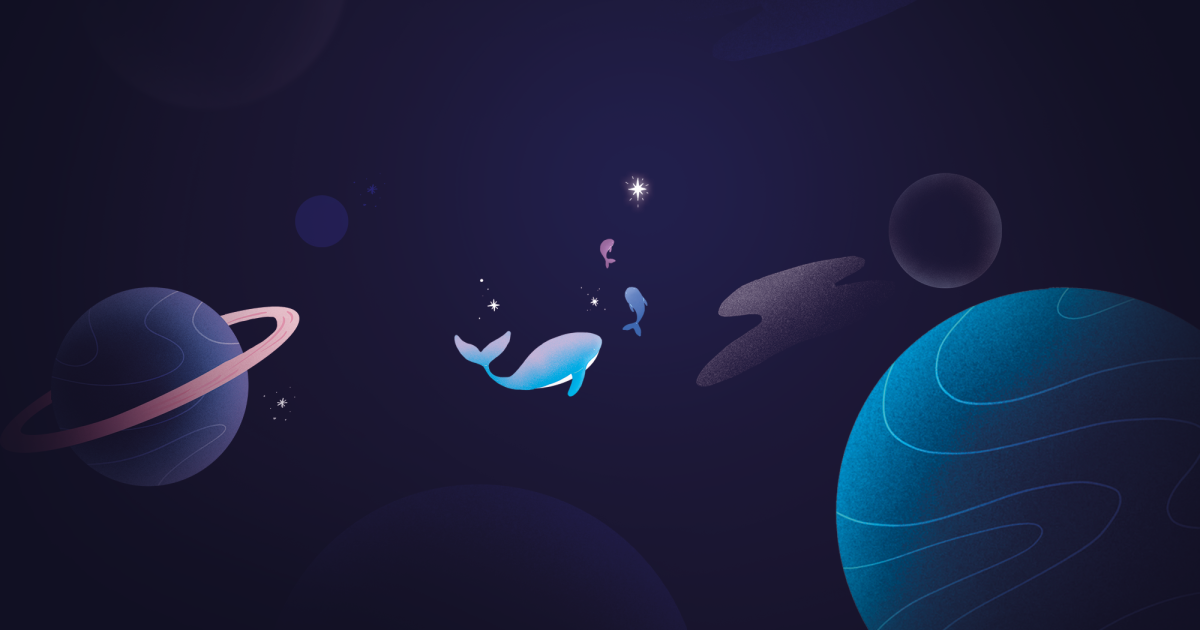
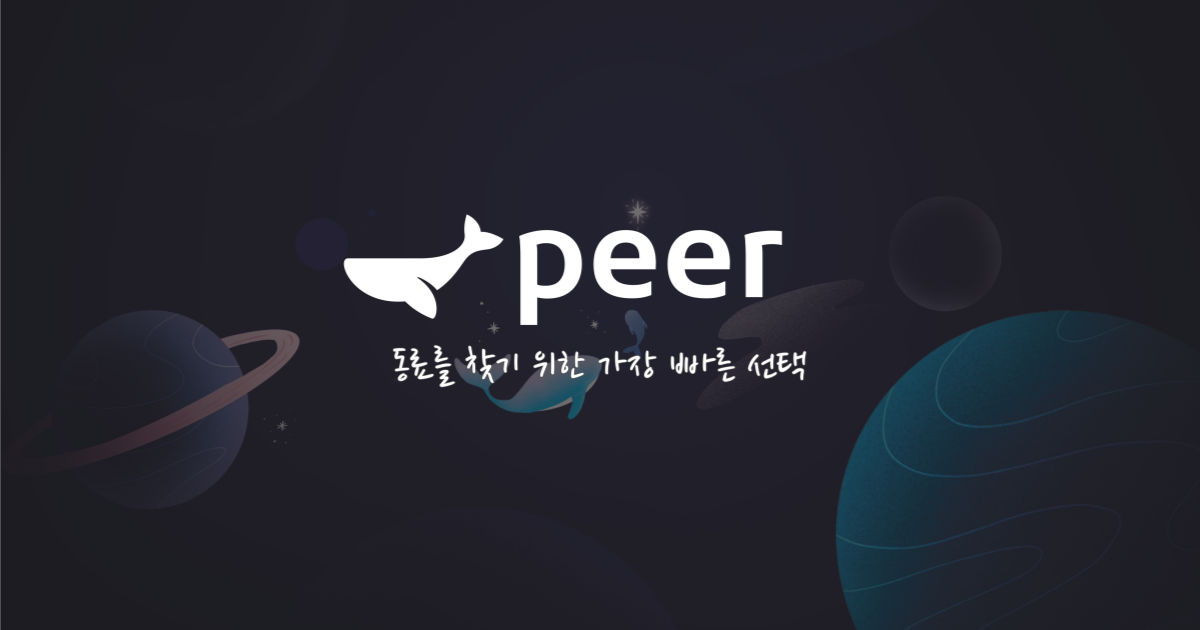
Chore: 메타데이터 변경

diff --git a/src/app/layout.tsx b/src/app/layout.tsx
@@ -11,7 +11,7 @@ import DataPickerProvider from './DataPickerProvider'
 
 const webMetadata = {
   title: 'peer',
-  description: 'peer는 함께 성장할 동료들을 만날 수 있는 곳입니다.',
+  description: '동료를 찾기 위한 가장 빠른 선택',
   url: 'https://peer-study.co.kr/',
   image: 'images/og-image.png',
 }
